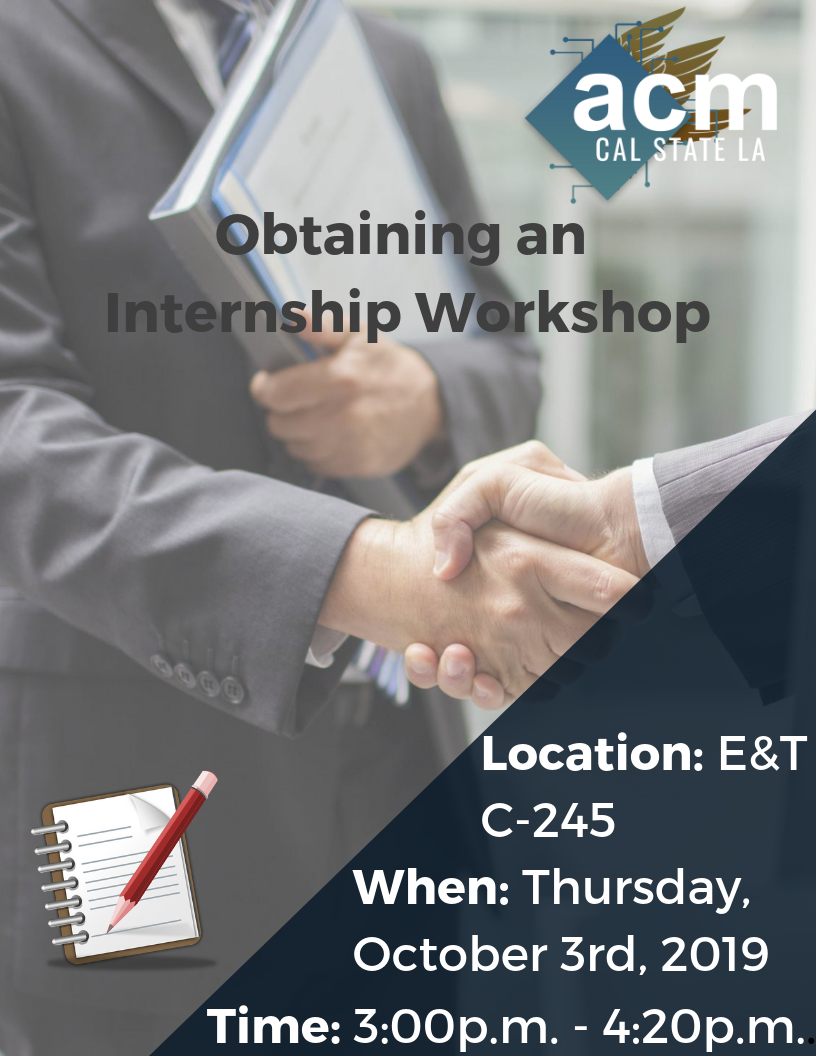
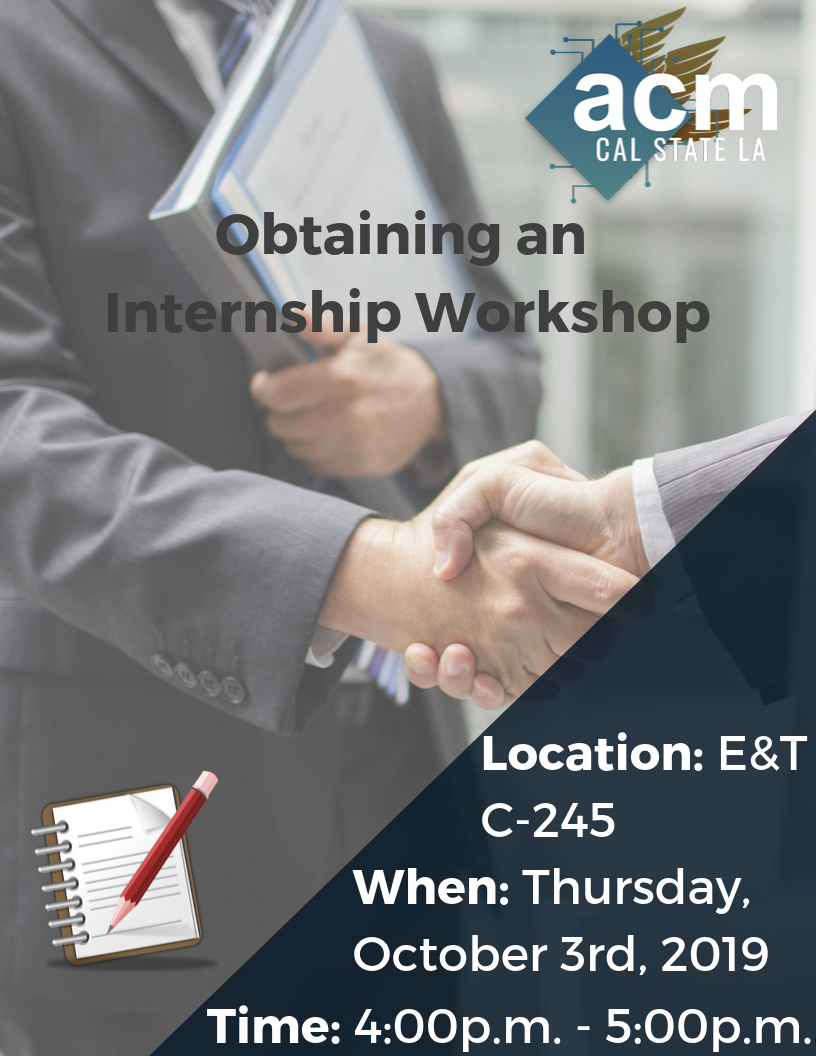
ADMIN: Resized photos in home page and changed flier time

diff --git a/src/components/projects/Projects.js b/src/components/projects/Projects.js
@@ -24,9 +24,6 @@ class Projects extends React.Component {
     render() {
         return (
             <div class="project-body">
-                <div class="quote-style-2">
-                    <p><i>Only through <span className="highlight-text">fire</span> can a strong sword be forged</i></p>
-                </div>
                 <div class="quote-style-1 quote-bg">
                     <div class="quote-block" style={{'margin-left': '15%', 'margin-right': '15%'}}>
                     <br></br>
